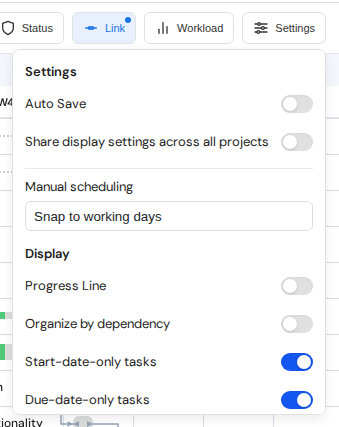
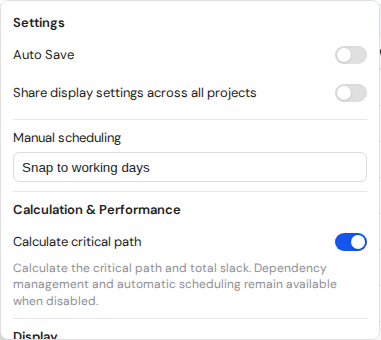
docs: update manual for v0.19.0

diff --git a/website/.vitepress/theme/index.ts b/website/.vitepress/theme/index.ts
@@ -14,11 +14,11 @@ export default {
               { class: 'manual-scope', role: 'note' },
               lang.value.startsWith('ja')
                 ? [
-                    '対象バージョン: v0.18.1。',
+                    '対象バージョン: v0.19.0。',
                     ' ',
                     h(
                       'a',
-                      { href: 'https://github.com/tiohsa/redmine_canvas_gantt/releases/tag/v0.18.1' },
+                      { href: 'https://github.com/tiohsa/redmine_canvas_gantt/releases/tag/v0.19.0' },
                       '対象リリース',
                     ),
                     ...(page.value.isNotFound
@@ -30,11 +30,11 @@ export default {
                       : []),
                   ]
                 : [
-                    'Manual version: v0.18.1.',
+                    'Manual version: v0.19.0.',
                     ' ',
                     h(
                       'a',
-                      { href: 'https://github.com/tiohsa/redmine_canvas_gantt/releases/tag/v0.18.1' },
+                      { href: 'https://github.com/tiohsa/redmine_canvas_gantt/releases/tag/v0.19.0' },
                       'Release notes',
                     ),
                     ...(page.value.isNotFound

diff --git a/website/tests/manual.smoke.spec.ts b/website/tests/manual.smoke.spec.ts
@@ -21,7 +21,7 @@ test('Japanese and English pages load and language menu reaches the matching gui
 
   await openPage(page, 'ja/guide/introduction')
   await expect(page.locator('main')).toContainText(/Redmine Canvas Gantt/)
-  await expect(page.locator('.manual-scope')).toContainText('v0.18.1')
+  await expect(page.locator('.manual-scope')).toContainText('v0.19.0')
   const overview = page.locator('main img[src$="canvas-gantt-overview-ja.png"]')
   await expect(overview).toBeVisible()
   await expect.poll(() => overview.evaluate((image: HTMLImageElement) => image.complete && image.naturalWidth > 0)).toBe(true)
@@ -123,6 +123,7 @@ test('all documented screenshots load on their Japanese and English pages', asyn
     'date-cell-edit-en.png',
     'display-settings-en.png',
     'export-menu-en.png',
+    'issue-dialog-settings-en.png',
     'pending-save-en.png',
     'permissions-en.png',
     'relation-editor-en.png',

diff --git a/website/.vitepress/config.ts b/website/.vitepress/config.ts
@@ -115,7 +115,7 @@ export default defineConfig({
       text: 'Edit this page',
     },
     footer: {
-      message: 'Manual version: v0.18.1',
+      message: 'Manual version: v0.19.0',
       copyright: 'Redmine Canvas Gantt contributors',
     },
   },
@@ -146,7 +146,7 @@ export default defineConfig({
           text: 'このページを編集',
         },
         footer: {
-          message: '対象バージョン: v0.18.1',
+          message: '対象バージョン: v0.19.0',
           copyright: 'Redmine Canvas Gantt contributors',
         },
       },
@@ -170,7 +170,7 @@ export default defineConfig({
           text: 'Edit this page',
         },
         footer: {
-          message: 'Manual version: v0.18.1',
+          message: 'Manual version: v0.19.0',
           copyright: 'Redmine Canvas Gantt contributors',
         },
       },

diff --git a/website/ja/features/display-export.md b/website/ja/features/display-export.md
@@ -4,15 +4,19 @@
 
 ツールバーや表示設定では、ズーム、月・週・日表示、行高、フォントサイズ、サイドバー幅、表示列と順序を調整できます。列境界をドラッグして幅を変更でき、全画面表示も使えます。
 
-進捗ライン、タスク名、階層線、日付のみのタスク点、バージョンヘッダー、ベースライン、依存関係に基づく並べ替えも切り替えられます。
+進捗ライン、タスク名、タスクバーの日付、階層線、日付のみのタスク点、バージョンヘッダー、ベースライン、依存関係に基づく並べ替えも切り替えられます。
 
-表示設定の **計算・パフォーマンス** セクションにある **クリティカルパスを計算する** で、クリティカルパスと余裕日数の計算を切り替えます。既定で有効です。無効にすると、クリティカルパスと余裕日数の通知が解除されます。依存関係に基づく自動スケジュールは引き続き動作します。この設定は表示設定と同じ範囲で保存され、プロジェクト単位または現在のブラウザープロファイル内の全プロジェクトに適用できます。
+**手動スケジュール** では、**稼働日に合わせる** または **カレンダー日へ自由に配置** を選べます。休日にも手動で配置したい場合は後者を使います。依存関係の制約は引き続き適用されます。
+
+**標準**・**一覧を最大化**・**チャートを最大化** で、左右ペインの表示を切り替えます。
+
+**計算・パフォーマンス** の **クリティカルパスを計算する** は既定で有効です。オフにするとクリティカルパスと余裕日数の計算・通知を停止します。依存関係による自動スケジュールは引き続き使えます。
 
 表示設定は Redmine ユーザー情報ではなく、ブラウザーの `localStorage` に保存されます。プロジェクト単位または同じブラウザープロファイル内の全プロジェクトに適用できます。「全プロジェクト」は Redmine の全利用者への共有を意味しません。同じプロファイルを使う人は設定を共有します。
 
 ブラウザーのサイトデータを削除すると、保存した表示設定も失われます。
 
-表示設定にはトラッカー ID とアイコン種別を対応づける JSON 設定もあります。JSON の形式や値は画面の設定ヘルプに従い、未確認のキーを手入力しないでください。
+トラッカーアイコンマップでは、チケット名の横に表示するアイコンをトラッカー ID ごとに設定できます。値は `todo`、`defect`、`ticket`、`document`、`milestone`、`link` です。例: `{"1":"defect","2":"todo"}`。
 
 ![表示設定を示す。](/images/display-settings-ja.png)
 
@@ -20,39 +24,45 @@
 
 進捗ラインを表示・非表示にするには、ツールバーの **進捗ライン** ボタンをクリックします。この線は今日の位置から始まり、各チケットの進捗率に応じたタスクバー上の点を行順につなぎます。完了済みや未着手の未来のチケットは今日の位置に点が置かれます。縦の今日線とは別の表示です。
 
-### チケットダイアログのサイズ（開発中の機能）
+### チケットダイアログのサイズ
 
-開発版の表示設定パネルでは、各設定グループの間を水平線で区切っています。
+ツールバーの **設定** を開き、パネル内をスクロールして **チケットダイアログ** を表示します。変更はすぐに反映されます。
 
-開発版では、ツールバーの折り返しやブラウザーのサイズ変更に合わせて、パネルが画面内に収まるよう表示位置も調整します。下部の設定にはパネル内をスクロールして移動できます。
+| 項目 | 選択肢・動作 |
+| --- | --- |
+| 幅 | コンパクト（900 px）、標準（1200 px、既定）、ワイド（1500 px）。画面幅に収まるよう調整されます。 |
+| 高さ | 自動（既定）、固定。固定時は画面の高さの 50〜90% を 5% 刻みで選択（既定 80%）。 |
+| 画面全体に表示 | ブラウザーの画面全体を使用します。有効中は幅・高さの選択を変更できません。 |
+| リセット | 幅を標準、高さを自動、固定高さを 80% に戻し、画面全体表示をオフにします。 |
 
-チケットダイアログのサイズ設定と表示設定パネルの幅を広げるレイアウトは開発中の変更で、リリース v0.18.0 には含まれていません。開発版では、表示設定パネルの幅を広げ、画面が狭い場合は幅を調整します。幅はコンパクト（900 px）、標準（既定の 1200 px）、ワイド（1500 px）から選べます。高さは自動または固定を選び、固定高さはビューポートの 50〜90% を 5% 刻みで設定します（既定は 80%）。**画面全体に表示**を有効にすると、チケットダイアログが現在のブラウザーのビューポート全体を覆います。有効中も幅と高さの設定は保存されますが、変更できません。作業時間記録とクエリのダイアログには通常のサイズ設定が適用されます。設定はすぐに反映されます。リセットすると幅は 1200 px、高さは自動（固定高さの割合は 80%）に戻り、画面全体に表示が無効になります。
+チケットの表示・編集・作成、子チケットの作成、コメント編集に適用されます。作業時間記録とクエリのダイアログは対象外です。保存範囲は他の表示設定と共通です。
 
-この設定は既存の表示設定と同じ保存範囲に従います。プロジェクトごとに保存するか、共有を有効にして同じブラウザープロファイル内のプロジェクトで共有できます。選択した幅はビューポート内に収まるよう制限されます。チケットの表示・編集・新規作成、サブチケット、チケットのコメント編集に適用されます。開発版では、作業時間記録とクエリのダイアログも狭い画面の幅に収まるよう調整されます。チケット用の幅・固定高さ・画面全体表示の設定は適用されず、作業時間記録のコンパクトな高さは維持されます。
+![チケットダイアログの幅・高さ・画面全体表示・リセットの設定。](/images/issue-dialog-settings-ja.png)
 
 ## PNG と CSV
 
-1. タイムライン（右側のペイン）を表示します。右ペインが非表示の場合、エクスポートは利用できません。
-2. ツールバーの **エクスポート** メニューを開きます。
-3. **PNG を出力** または **CSV を出力** を選びます。PNG は現在の表示を画像として出力し、CSV は表示中のタスクデータを親子関係列・依存関係列とともに出力します。数値列は数値のままです。
+1. タイムライン（右側のペイン）を表示します。
+2. ツールバーの **エクスポート** を開き、用途に合う項目を選びます。
+
+| 項目 | 出力内容 |
+| --- | --- |
+| PNG を出力 | 現在画面に表示されているチャート。 |
+| 全体をPNG出力 | 画面外を含む、現在の表示対象の全行・全期間のチャート。 |
+| CSV を出力 | 表示中のタスクデータ。親子関係・依存関係の列を含み、数値列は数値のまま出力します。 |
+
+右側のペインが非表示の場合は出力できません。
 
 CSV のテキスト値が `=`, `+`, `-`, `@`（全角を含む）、タブ、改行などの数式開始文字を含む場合、表計算ソフトでの実行リスクを抑えるためセル先頭にタブが追加されることがあります。引用符で囲まれたセル内のタブはデータの一部になり、プログラムによる取り込みに影響する可能性があります。対象の Excel / Calc の版と取り込み経路で、必要に応じて実ファイルを確認してください。すべての表計算ソフトや経路での安全を保証するものではありません。
 
-表計算ソフトで確認する場合は、件名が `=1+1`、親チケットの件名が `+1+1`、カスタムフィールド名が `＠SUM(1)`、値が `  -1+1` のテストチケットを用意します。引用符、カンマ、単独のキャリッジリターンを含む値も用意してください。CSV を出力し、危険なテキストの先頭に引用符で囲まれたセル内のタブがあり、埋め込まれた引用符が二重になっていることを確認します。対象の Excel / Calc で開き、値が文字列のままでセルや行が崩れないことを確認し、保存して再度開いて確認します。対応する取り込み経路ごとに繰り返してください。自動 serializer テストはこの表計算ソフトでの確認を行いません。出力時には先頭の空白や BOM の後も検査します。Excel が保存・再読込時に除去する可能性があるため、先頭の単一引用符は使用しません。
-
 ![エクスポートメニュー。](/images/export-menu-ja.png)
 
-PNG と CSV のエクスポートメニュー。[画像を拡大](/images/export-menu-ja.png)
+PNG・全体 PNG・CSV のエクスポートメニュー。[画像を拡大](/images/export-menu-ja.png)
 
-### 全体をPNG出力（開発中の機能）
+### 全体をPNG出力
 
-全体PNG出力は開発中の機能で、リリース v0.18.1 には含まれていません。
+**全体をPNG出力** は、現在のズーム、行の高さ、フィルター、並べ替え、折りたたみ状態を使います。有効なベースラインやラベルも含みます。サイドバー、ワークロード、選択・ホバー表示は含みません。
 
-エクスポートメニューから **全体をPNG出力** を選ぶと、現在のズームと行の高さを使い、画面外の行も含めて現在の表示対象の全行をPNGに出力します。横方向も画面外を含む全期間が対象です。現在のフィルター、並べ替え、折りたたみ状態を保ち、タスクとサマリー、および有効なベースラインの日付を描画します。出力対象はチャート領域のみで、サイドバーとワークロードペインは含まれません。選択、ホバー、作成途中の依存関係線も含まれません。画像サイズはモニターの表示倍率に左右されません。
-
-表示が有効なタスク名・バージョン名・バーの日付ラベルの文字幅も含めて、画像の左右の範囲を確保します。長い名前は省略や縮小をせず、画像の幅を広げて出力します。
-
-出力できる画像は、幅・高さそれぞれ 8192 ピクセル以下かつ合計 16,777,216 ピクセル以下です。ヘッダーとラベルの文字幅もこの上限に含まれます。上限を超えた場合は出力を中止します。ズームまたは行の高さを下げるか、表示行をフィルターして再度出力してください。
+画像は各辺 8192 px 以下、総画素数 16,777,216 以下に制限されます。長いラベルも画像幅に含まれるため、上限を超えたらズーム・行高を下げるか、フィルターで行数を減らしてください。
 
 ## 設定の共有とクエリ共有
 

diff --git a/website/en/features/dependencies.md b/website/en/features/dependencies.md
@@ -2,43 +2,38 @@
 
 Dependencies appear as lines between issues on the timeline. `precedes` / `follows` are used as scheduling constraints; reference-only `relates` and blocking relations have different behavior.
 
-## Manual save in the development version {#manual-save}
+## Manual save {#manual-save}
 
-In the documented v0.18.0 release, creating, editing, or deleting a dependency sends the change to Redmine immediately, even when task auto-save is off. The development version changes this when **Auto save** is off:
+With **Auto save** off, dependency changes stay as drafts. Select **Keep changes pending** in the editor, then use **Save** in the toolbar to save them together with task edits. With auto-save on, changes are sent immediately.
 
-- Create, edit, and delete operations stay as local drafts. The relation editor's primary action is **Keep changes pending**; it stages the edit without sending an API request. This also applies when **Auto apply default relation** is on.
-- Staged dependencies are shown as pending in the editor, and new or updated links use a dashed line.
-- Staged precedence relations also take part in local constraint checks, linked moves, and critical-path calculations according to the current scheduling settings. Relations staged for deletion are excluded from these local calculations.
-- Compact icon-only **Save** and **Cancel** buttons appear for task drafts, dependency drafts, or both. The **Save** tooltip shows separate task and dependency counts. A review alert opens the right-side panel for failed or unknown dependency saves. **Cancel** discards the unsaved task and dependency drafts together, closes the dependency editor, and discards its input.
-- With **Auto save** on, dependency changes continue to be sent immediately.
+- New and updated links appear dashed and take part in scheduling checks and critical-path calculations. Links staged for deletion are excluded from these calculations.
+- The **Save** tooltip shows separate task and dependency counts.
+- **Cancel** discards all unsaved task and dependency changes, including editor input. It cannot undo saved changes.
+- If a change cannot be staged while saving, the editor retains your input and shows an error. Try again after saving finishes.
 
-If another dependency change cannot be kept pending while a save is in progress, an error appears and the editor retains your input. With **Auto apply default relation** on, the relation you attempted to create also remains in the editor. Try again after saving finishes; the edit is not retried automatically.
+Tasks are saved first, followed by dependencies. A failure can leave some changes saved and others pending. Check the remaining drafts and errors before retrying.
 
-In manual save mode, definitive rejections such as permission errors, missing targets, conflicts, or validation errors leave the dependency draft marked as **Failed**. Review the server's error message, make any necessary corrections, and retry.
+Some changes cannot be saved together, such as moving a successor earlier when an existing predecessor relation must be removed first. Save the relation change first, then edit and save the dates.
 
-The combined save is a sequence of server requests, not one database transaction. Canvas Gantt saves task changes first and stops before dependency writes if any task save fails. It then refreshes and revalidates the dependencies before sending their changes. A task save or an earlier dependency request can complete while a later request fails. Completed work stays saved, while unresolved dependency changes stay pending. **Cancel** only discards those remaining drafts; it cannot undo changes already saved.
+### Failed or unknown saves
 
-Within the task phase, dependency-ordered tasks are saved in order; independent tasks may be saved concurrently, up to eight at a time. Dependency changes are sent one at a time after task saves finish.
+Rejected changes, such as permission or validation errors, remain marked **Failed**. Correct the error before retrying.
 
-In the development version, if a task PATCH response is incomplete or cannot be trusted, Canvas Gantt refreshes the task before deciding whether the save completed. A refreshed canonical task that confirms the requested fields is accepted as saved; if the result cannot be confirmed, the edit stays pending as a conflict for review. The PATCH is not sent again automatically. This task-save behavior is not part of the documented v0.18.0 release.
+If a timeout or ambiguous response prevents confirmation, the change remains **Unknown** and is not resent automatically. Check the server state in the right-side review panel. Reopen it with **Review dependencies**, or **Resolve conflicting changes** when task conflicts are also present.
 
-In the development version, unresolved task mutation results are retained by edit generation. A later unsaved edit does not inherit an earlier conflict, and settling one generation leaves other unresolved results available for review. Conflict resolution applies to the generations and local intent captured when the action starts; edits made afterward remain pending. This behavior is not part of the documented v0.18.0 release.
+- **Mark as applied**: use when the server shows the intended change.
+- **Retry after review**: use when the change is absent and the original state is still current.
+- **Retry failed dependency saves**: saves failed changes again. Other pending changes may also be included.
 
-In the development version, conflict resolution validates the refreshed task ID and revision, and adopts it only when the task's lock version matches that revision. It does not adopt a response older than the current canonical task. If an outcome or edit within the captured generation range changes while resolution is in progress, the operation stops and keeps the drafts and unresolved results. If the view changes after a PATCH is sent, its response is not applied to the old view; when the task, draft, generation, and unresolved outcome still belong to that retry, the result is retained as unknown. This behavior is not part of the documented v0.18.0 release.
+Both endpoint issues must be visible to check the result. Adjust filters to include them. If the state differs or cannot be checked, leave the change unresolved and review it in Redmine.
 
-In the development version, an unknown create or update stays visible as an unresolved draft, but its desired values are excluded from the confirmed scheduling graph, critical path, and dependency ordering. An unknown deletion keeps the existing relation in displayed links and local calculations until its outcome is confirmed.
-
-If a dependency request times out or returns an ambiguous server error, its result is marked **Unknown** and is never retried automatically. The right-side conflict and review panel opens automatically. After closing it, use **Review dependencies** at the top right to reopen it. If task conflicts are also present, the shared **Resolve conflicting changes** button reopens the panel for both. It lists unresolved dependency changes individually with their endpoints, status, and error, including deletions whose links are no longer shown. Before resolving an unknown result, Canvas Gantt refreshes the server relations and checks them against the intended change. Choose **Mark as applied** only when the server state matches; choose **Retry after review** only when it does not match and the original state is still current. Failed changes can also be retried from the panel with **Retry failed dependency saves**. This retry uses the combined save flow, so other pending task or dependency drafts may be included. If the refreshed state has changed in another way, or cannot be checked, leave the operation unresolved and review the dependency in Redmine. **Cancel** discards remaining drafts but cannot undo changes already saved.
-
-For an unknown create, update, or deletion, both endpoint issues must be included in the refreshed server data before the result can be resolved or retried. If a filter excludes either issue, keep the change unresolved and adjust the filter to include both issues before checking again.
-
-Some combined changes cannot be applied safely in this sequence. For example, if moving a successor earlier requires deleting or changing its existing predecessor relation first, the development version refuses the combined save before writing either change. Save the relation change first, then edit and save the dates. These development behaviors are not included in v0.18.0.
+Unknown creates and updates are excluded from scheduling calculations until confirmed. An unknown deletion keeps the existing link and its scheduling constraints. Unconfirmed task saves also retain their drafts, including new edits made during review.
 
 ## Create a dependency
 
 1. Drag from a dependency handle near either end of the predecessor task bar.
 2. Drop near the successor issue's task bar.
-3. If **Auto apply default relation** is off, an editor popover opens. Choose a relation type and any required delay, then select **Save**. If it is on, the relation is created using the default type selected in toolbar settings.
+3. If **Auto apply default relation** is off, an editor popover opens. Choose a relation type and any required delay, then select **Save** (**Keep changes pending** with auto-save off). If it is on, the relation is created using the default type selected in toolbar settings.
 
 The editor offers three types:
 
@@ -57,7 +52,7 @@ Use toolbar relation settings to choose the default type, automatic delay calcul
 ## Edit or remove a relation
 
 1. Click a dependency line on the timeline.
-2. Change the type or delay in the editor popover, then select **Save**.
+2. Change the type or delay in the editor popover, then select **Save** (**Keep changes pending** with auto-save off).
 3. Select **Delete** in the popover to remove the relation. You can also right-click an issue and remove a relation from the list of related relations.
 
 Duplicates, cycles, permissions, and date consistency can prevent a save. Editing requires visibility and permission for the related issues. Cross-project relations follow Redmine's `cross_project_issue_relations` setting.

diff --git a/website/en/features/display-export.md b/website/en/features/display-export.md
@@ -4,15 +4,19 @@
 
 Use the toolbar and display settings to adjust zoom, month/week/day view, row height, font size, sidebar width, and visible columns and their order. Drag column borders to resize them. Fullscreen is also available.
 
-You can also toggle the progress line, task titles, hierarchy lines, date-only task markers, version headers, baseline visibility, and dependency-based sorting.
+You can also toggle the progress line, task titles, task-bar dates, hierarchy lines, date-only task markers, version headers, baseline visibility, and dependency-based sorting.
 
-In the **Calculation & Performance** section of display settings, **Calculate critical path** controls calculation of the critical path and total slack. It is on by default. Turning it off clears critical-path and total-slack notifications; dependency-based automatic scheduling continues to work. This preference is stored with display settings and can be saved per project or for all projects in the current browser profile.
+Under **Manual scheduling**, choose **Snap to working days** or **Allow any calendar day**. Use the latter to place tasks on non-working days manually. Dependency constraints still apply.
+
+Use **Standard**, **Maximize List**, or **Maximize Chart** to switch the pane layout.
+
+**Calculate critical path** under **Calculation & Performance** is on by default. Turn it off to stop critical-path and total-slack calculations and notifications. Dependency-based automatic scheduling remains available.
 
 Preferences are stored in browser `localStorage`, not in a Redmine user record. You can apply them per project or across all projects in the same browser profile. “All projects” does not mean all Redmine users; anyone using the same profile will see those settings.
 
 Clearing the browser's site data also removes saved display preferences.
 
-Display settings also support tracker icon mapping through JSON from tracker IDs to icon kinds. Follow the help shown by the settings screen; do not enter unverified keys or values.
+The tracker icon map sets the icon shown beside each issue subject by tracker ID. Supported values are `todo`, `defect`, `ticket`, `document`, `milestone`, and `link`. Example: `{"1":"defect","2":"todo"}`.
 
 ![Display settings.](/images/display-settings-en.png)
 
@@ -20,39 +24,45 @@ Display settings. [View full-size image](/images/display-settings-en.png)
 
 To show or hide the **Progress Line**, select it in the toolbar. This line starts at today's position and connects one point per issue row: the point is placed on the task bar according to its progress percentage. Closed issues and future issues that have not started are placed at today's position. This is separate from the vertical today line.
 
-### Issue dialog size (development feature)
+### Issue dialog size
 
-In the development version, horizontal lines separate each settings group in the display settings panel.
+Open **Settings** in the toolbar and scroll to **Ticket dialog**. Changes take effect immediately.
 
-The development version also adjusts the panel position to keep it within the viewport when the toolbar wraps or the browser is resized. Scroll inside the panel to reach settings further down.
+| Setting | Options and behavior |
+| --- | --- |
+| Width | Compact (900 px), Standard (1200 px, default), or Wide (1500 px), capped to fit the screen. |
+| Height | Automatic (default) or Fixed. Fixed height ranges from 50% to 90% of the viewport in 5% steps (default 80%). |
+| Fill viewport | Uses the entire browser viewport. Width and height controls are disabled while enabled. |
+| Reset | Restores Standard width, Automatic height, and 80% fixed height, and turns off Fill viewport. |
 
-Issue dialog size controls and the wider settings panel layout are development changes and are not included in release v0.18.0. In the development version, the settings panel uses a wider layout and adjusts its width on narrow screens. It provides Compact (900 px), Standard (1200 px, the default), and Wide (1500 px) widths, plus automatic or fixed height. Fixed height is 50% to 90% of the viewport in 5% steps and defaults to 80%. **Fill viewport** makes issue dialogs cover the current browser viewport. The width and height choices stay saved but are disabled while this option is on. Time-entry and query dialogs keep their normal sizing. Changes take effect immediately. Reset returns the width to 1200 px and height to automatic, turns off Fill viewport, and returns the fixed-height percentage to 80%.
+These settings apply to issue display, editing, creation, subtasks, and comment editing. Time-entry and query dialogs are excluded. They use the same storage scope as other display preferences.
 
-These preferences follow the existing display preference scope: per project, or shared across projects in the same browser profile when that option is enabled. The selected width is capped to fit the viewport. The settings apply to issue display, edit, and creation dialogs, subtasks, and issue comment editing. In the development version, time-entry and query dialogs also shrink to fit narrow screens. Issue width, fixed-height, and Fill viewport preferences do not apply to them; time-entry dialogs retain their compact height.
+![Ticket dialog settings for width, height, Fill viewport, and Reset.](/images/issue-dialog-settings-en.png)
 
 ## PNG and CSV
 
-1. Show the timeline in the right pane. Export is unavailable while that pane is hidden.
-2. Open **Export** in the toolbar.
-3. Select **Export PNG** or **Export CSV**. PNG exports the current view; CSV exports the visible task data with hierarchy and dependency columns. Numeric task columns remain numeric.
+1. Show the timeline in the right pane.
+2. Open **Export** in the toolbar and choose an option.
+
+| Option | Output |
+| --- | --- |
+| Export PNG | The chart currently visible on screen. |
+| Export full PNG | All rows and the full date range in the current view, including areas outside the viewport. |
+| Export CSV | Visible task data with hierarchy and dependency columns. Numeric columns remain numeric. |
+
+Export is unavailable while the right pane is hidden.
 
 To reduce formula execution risk in spreadsheets, exported untrusted text that begins with `=`, `+`, `-`, `@` (including full-width forms), a tab, or a line break may receive a leading tab inside a quoted cell. That tab becomes cell data and can affect programmatic imports. Verify the actual file in the target Excel / Calc version and import path where needed. The export cannot guarantee safety for every spreadsheet or import route.
 
-For a spreadsheet check, create test issues with subject `=1+1`, parent subject `+1+1`, custom field name `＠SUM(1)`, and custom field value `  -1+1`. Include a value containing a quote, comma, and lone carriage return. Export CSV and inspect that dangerous text begins with a tab inside a quoted cell and embedded quotes are doubled. Open it in the target Excel or Calc version, confirm that values remain text and cells and rows stay intact, then save and reopen it to check again. Repeat for each supported import route. Automated serializer tests do not perform this spreadsheet check. The exporter also checks past leading spaces and BOM; a single-quote prefix is not used because Excel may remove it on save and reopen.
-
 ![Export menu.](/images/export-menu-en.png)
 
-PNG and CSV export menu. [View full-size image](/images/export-menu-en.png)
+PNG, full PNG, and CSV export menu. [View full-size image](/images/export-menu-en.png)
 
-### Export full PNG (development feature)
+### Export full PNG
 
-Full PNG export is under development and is not included in release v0.18.1.
+**Export full PNG** uses the current zoom, row height, filters, sort order, and collapsed groups. It includes enabled baselines and labels, and excludes the sidebar, workload pane, selection, and hover indicators.
 
-Select **Export full PNG** from the Export menu to create a PNG of all rows in the current view, including rows outside the viewport, across the full date range beyond the visible area. It uses the current zoom and row height, preserves the current filters, sort order, and collapsed groups, and draws tasks, summaries, and enabled baseline dates. The image contains the chart area only; it excludes the sidebar and workload pane. Selection, hover, and the draft dependency line are also excluded. Image dimensions do not depend on monitor display scaling.
-
-When enabled, task titles, version names, and bar date labels are included in the image's horizontal bounds. Long names widen the image instead of being truncated or scaled down.
-
-The image must be no more than 8192 pixels on either side and no more than 16,777,216 pixels in total. The header and label widths count toward these limits. Export stops when a limit is exceeded. Reduce the zoom or row height, or filter the displayed rows, and try again.
+Images are limited to 8192 px per side and 16,777,216 pixels in total. Long labels count toward the width. If the limit is exceeded, reduce zoom or row height, or filter out rows before trying again.
 
 ## Display preferences versus shared query state
 

diff --git a/website/en/troubleshooting/index.md b/website/en/troubleshooting/index.md
@@ -15,7 +15,7 @@ Permission to view Canvas Gantt does not grant issue actions. Check the standard
 
 - If auto-save is off, use the save action after editing. Do not leave the page before saving pending changes.
 - Check the target issue's edit permission, validation errors, and messages returned by Redmine. See [Permissions](/en/administration/permissions) for the required permission.
-- In the development version, if you see “The latest task data could not be refreshed,” any changes confirmed as saved are retained. Once the latest state can be refreshed, review and save any pending dependency changes. You do not need to enter confirmed saved date changes again.
+- If you see “The latest task data could not be refreshed,” any changes confirmed as saved are retained. Once the latest state can be refreshed, review and save any pending dependency changes. You do not need to enter confirmed saved date changes again.
 - With a business calendar configured, selecting a non-working date can move the start date forward to the next working day and the due date backward to the previous working day.
 - Setting the start date to **Today** on a non-working day can move it to the next working day. Then setting the due date to **Today** fails because it is before the current start date. Check the start date in the list and choose a due date on or after it. To place dates on non-working days, change Date placement to **Allow any calendar day**.
 - If the conflict panel lists issues, review the differences using the steps below.
@@ -47,7 +47,7 @@ Review saved Redmine query and URL conditions such as status, assignee, project,
 ## The chart is blank, distorted, or stale
 
 - Clear filters and use **Today** or zoom controls to return to a useful timeline position.
-- Check that you are using a current supported desktop version of Chrome, Edge, Firefox, or Safari, with JavaScript and `localStorage` enabled. Mobile browsers and embedded webviews are outside the tested support matrix.
+- Use desktop Chrome or Edge, the browsers tested for this release, and enable JavaScript and `localStorage`. Other browsers, mobile browsers, and embedded webviews are outside the tested support matrix.
 - Check that `CANVAS_GANTT_USE_VITE_DEV_SERVER=1` is not set on production Redmine. When enabled for development, the Vite dev server must also be running.
 - Check failed data requests in the browser's developer tools. An oversized complete data response returns HTTP 413; narrow the query if appropriate.
 - After updating assets, restart Redmine and force-reload the page.
@@ -68,7 +68,7 @@ Check the file location and permissions for the Redmine process. Changes are che
 
 ### Why is a baseline missing or unavailable to save?
 
-Viewing a baseline requires `view_canvas_gantt`; saving one requires `manage_canvas_gantt_baseline`. Each project has one baseline, and saving another replaces it. See [Permissions](/en/administration/permissions) for details.
+Viewing a baseline requires `view_canvas_gantt`; saving, replacing, or deleting one requires `manage_canvas_gantt_baseline`. Each project has one baseline, and saving another replaces it. See [Permissions](/en/administration/permissions) for details.
 
 ## Report an issue on GitHub
 

diff --git a/website/ja/features/baseline.md b/website/ja/features/baseline.md
@@ -24,19 +24,15 @@
 
 保存済みベースラインの比較。[画像を拡大](/images/baseline-compare-ja.png)
 
-## 保存済みベースラインの削除（開発中の機能）
+## 保存済みベースラインの削除
 
-ベースライン削除は開発中の機能で、リリース v0.18.0 には含まれていません。開発版では、現在のプロジェクトに保存された 1 件のスナップショット全体を削除します。フィルタ結果を保存したベースラインでも、現在表示中のチケットだけを削除する機能ではありません。削除前の確認ダイアログには保存日時、保存者、保存範囲が表示され、元に戻せない操作であることが示されます。チケットや現在の日程は変更されません。
+ベースラインのメニューから削除を選び、保存日時・保存者・保存範囲を確認して実行します。現在のプロジェクトのスナップショット全体を削除します。チケットや現在の日程は変わりません。削除は元に戻せません。
 
-開発版では、削除操作はプロジェクトのベースラインを管理できるユーザーに限られます。別のユーザーが削除前にベースラインを置き換えた場合、現在のベースラインを再取得し、古いスナップショット ID で削除を再試行しません。サーバーの結果を確認できない場合もベースラインの状態を再取得し、削除要求を自動で再送しません。
-
-確認ダイアログのキャンセル・削除ボタンは、チケットダイアログと同じ角丸デザインです。
-
-開発版では、削除要求の通信は 15 秒でタイムアウトし、その後のサーバー状態の確認は最大 10 秒で待機を終了します。タイムアウトしても、削除が失敗したとは限りません。結果を確認できない場合はエラー通知を表示し、確認ダイアログを閉じてチャートの操作を再開できるようにします。最新のサーバー応答で状態を確認できるまでは表示中のスナップショットを維持し、削除要求を自動で再送しません。
+別のユーザーがベースラインを置き換えた場合は、最新の内容を確認し直してください。通信のタイムアウトは削除失敗を意味しません。結果を確認できない場合はエラーを表示し、自動再送を行いません。状態を確認してから再操作してください。
 
 ## 権限と保存先
 
 - ベースラインを表示するには `view_canvas_gantt` が必要です。
-- 保存・置換には `manage_canvas_gantt_baseline` が必要です。
+- 保存・置換・削除には `manage_canvas_gantt_baseline` が必要です。
 - 保存先や設定の管理方法は[管理者向け設定ガイド](/ja/administration/settings)を参照してください。
 - アンインストール時のデータ削除については[インストールと削除](/ja/guide/installation)を参照してください。
